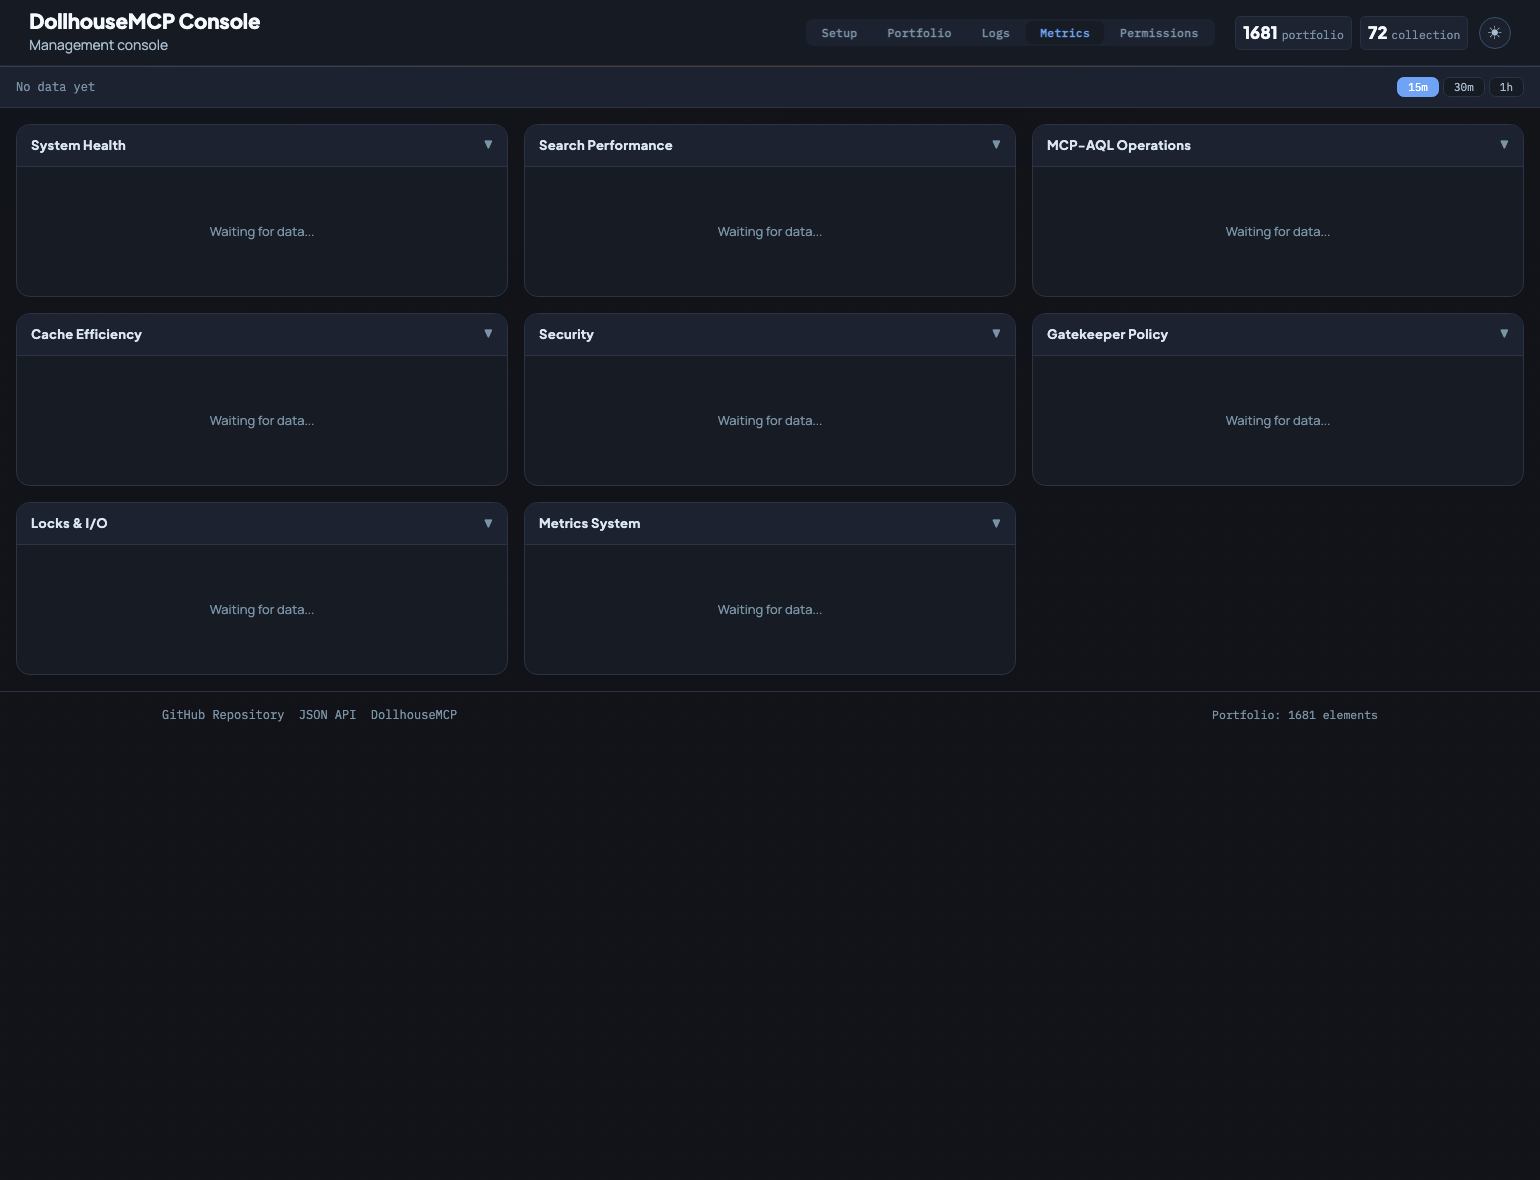
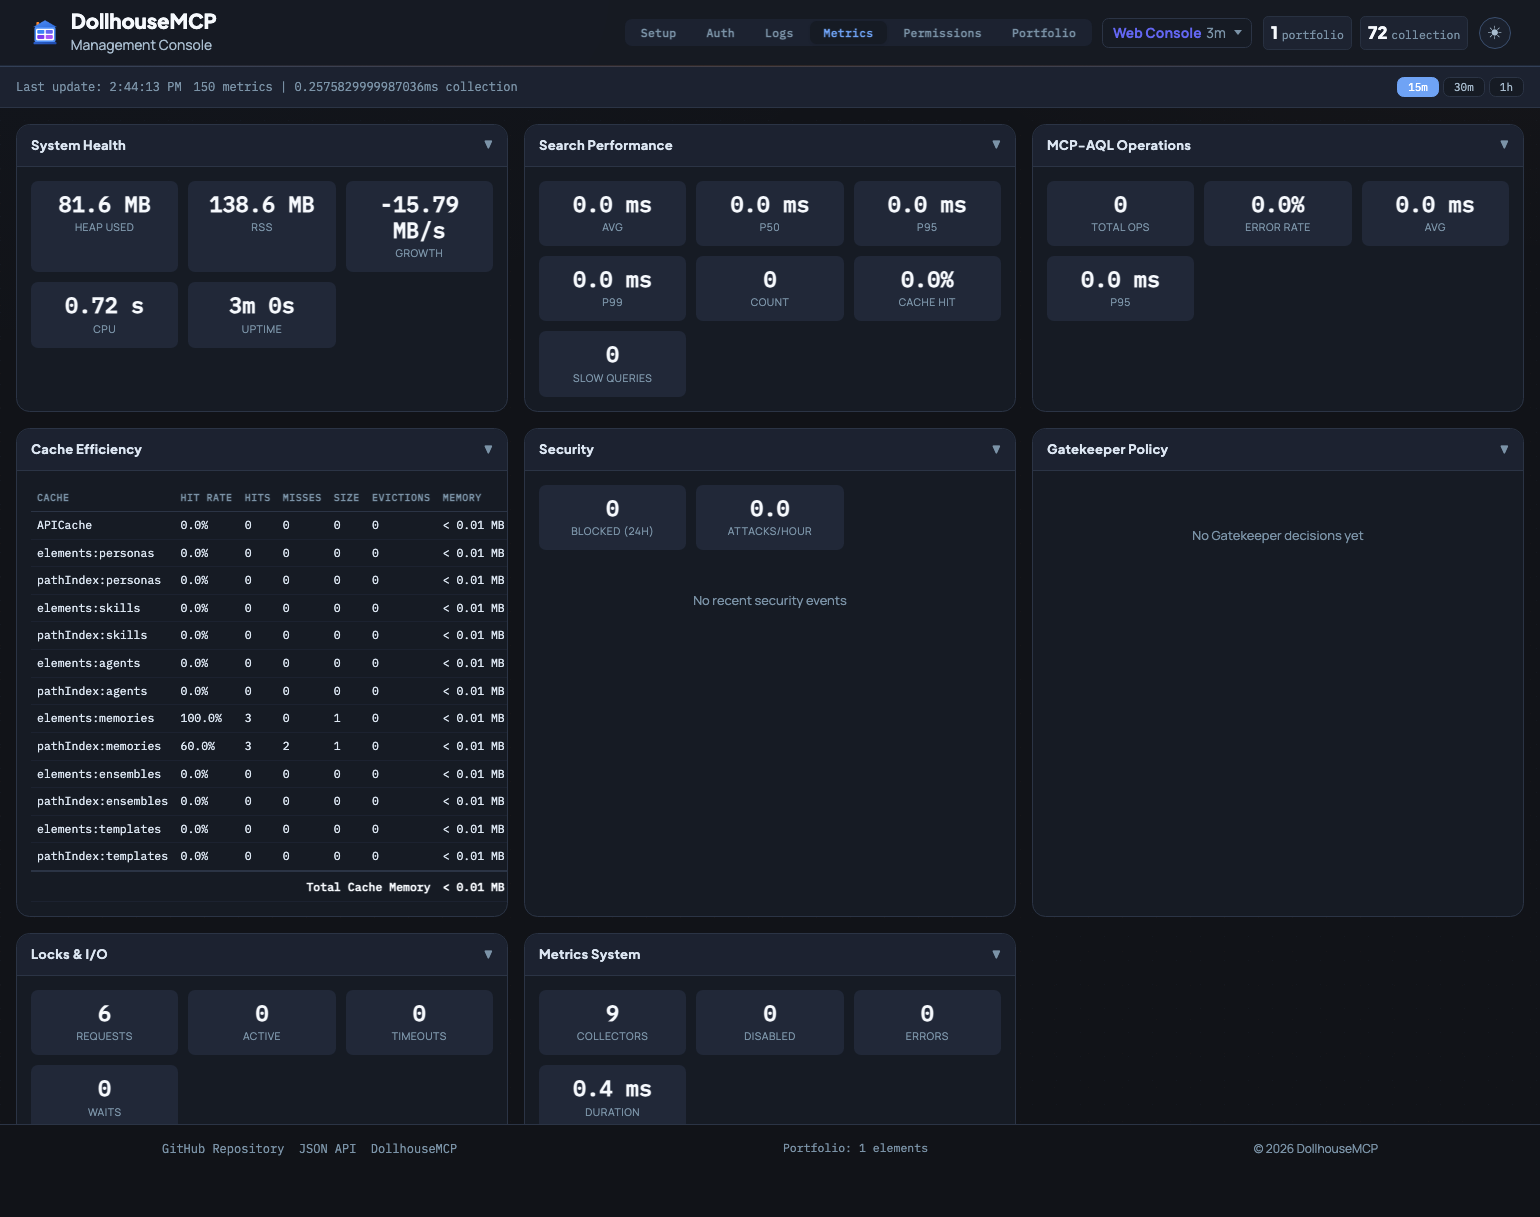
Refresh console logs and metrics tour

diff --git a/_blog_posts/dollhousemcp-console-tour.md b/_blog_posts/dollhousemcp-console-tour.md
@@ -19,7 +19,7 @@ Run this in a terminal:
 npx @dollhousemcp/mcp-server@latest --web
 ```
 
-That launches the local DollhouseMCP console at `http://dollhouse.localhost:3939` and gives you five major views:
+That launches the local DollhouseMCP console and prints the local console URL in your terminal. From there you get five major views:
 
 - **Setup** for guided install across popular MCP clients
 - **Portfolio** for browsing your local Dollhouse elements visually
@@ -69,7 +69,7 @@ The logging surface is designed for actual debugging work, not just decoration. 
 
 ![DollhouseMCP logs tab](/assets/images/blog/dollhouse-console-logs.png)
 
-At the moment, we are still tightening up the live data path in this view, so the screenshot here is more about the shape of the interface than a fully populated stream. Even so, it shows where operational visibility is headed inside the local console.
+This screenshot shows a couple of intentionally simple warning events, which is actually useful: the tab is not just a pretty shell, it is already a workable way to confirm that ingestion routes, filters, and severity handling are doing what you expect.
 
 ## Metrics: What the Server Is Doing Internally
 
@@ -88,7 +88,7 @@ The public front-end and docs show metrics cards for things like:
 
 ![DollhouseMCP metrics tab](/assets/images/blog/dollhouse-console-metrics.png)
 
-Like the Logs tab, this view is still in the process of getting richer live data in our current build, so this screenshot is best read as a product surface preview rather than a finished telemetry dashboard. The important thing is that observability is part of the platform design, not an afterthought.
+Metrics take a moment to warm up because the first snapshot is collected on an interval after the server starts. Once that first snapshot lands, the dashboard becomes a genuinely useful quick read on memory, CPU, cache activity, security counters, and metrics pipeline health.
 
 ## Permissions: Making Gatekeeper Visible
 
@@ -123,4 +123,4 @@ Copy this, paste it into a terminal, and run it:
 npx @dollhousemcp/mcp-server@latest --web
 ```
 
-Then open `http://dollhouse.localhost:3939` and take a look around.
+Then open the local console URL printed by the server and take a look around.
